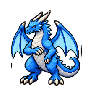
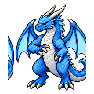
Restore visible claw arms and original dragon proportions across ten frames

diff --git a/design/enemies/dragon_frost/attack_claw/PROMPT.md b/design/enemies/dragon_frost/attack_claw/PROMPT.md
@@ -1,1 +1,1 @@
-Built-in image_gen. Base: ../attack/dragon_frost_1.png. Generate entire coherent ten-frame5x2 transparent sprite sheet of same blue frost dragon, small blue eyes and original detailed pixel-art. Frame1 normal,2 raising,3 raising,4 highest raising,5 downstroke begins,6 downstroke across chest,7 lowest downstroke,8 return,9 return,10 normal. Viewer-right/front forearm attacks; grounded hindfeet, stable wings and tail. No fire, weapons, slash effects or pasted body parts. Export ten94x94 transparent PNGs in numeric order. Correction: planted feet baseline y91 in every frame, stable hips and head, original narrow blue-eyed face, frame10 equals frame1. Preview frame delays(ms): 180,120,120,140,80,80,80,120,120,180.
+Built-in image_gen. Base: ../attack/dragon_frost_1.png. Generate entire coherent ten-frame5x2 transparent sprite sheet of same blue frost dragon, small blue eyes and original detailed pixel-art. Frame1 normal,2 raising,3 raising,4 highest raising,5 downstroke begins,6 downstroke across chest,7 lowest downstroke,8 return,9 return,10 normal. Both forearms visible throughout, including frame7 continuous shoulder-elbow-wrist-claws. Whole character regenerated to match original reference face and proportions; front forearm attacks; grounded hindfeet, stable wings and tail. No fire, weapons, slash effects or pasted body parts. Export ten94x94 transparent PNGs in numeric order. Correction: planted feet baseline y91 in every frame, stable hips and head, original narrow blue-eyed face, frame10 equals frame1. Preview frame delays(ms): 180,120,120,140,80,80,80,120,120,180.
